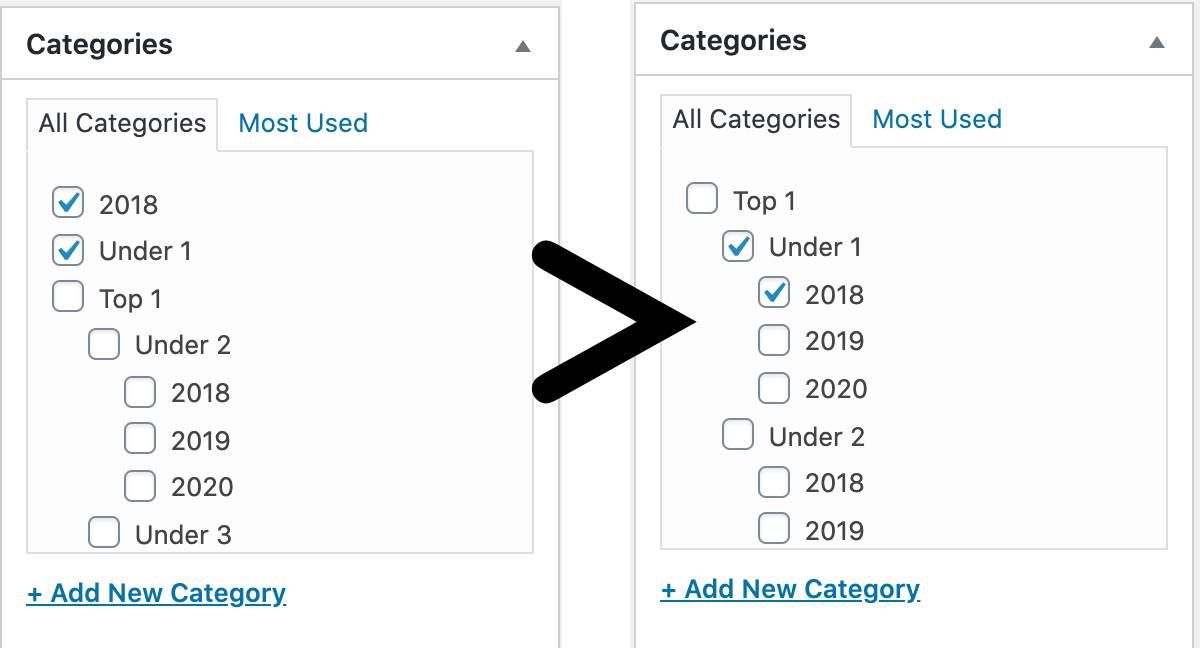
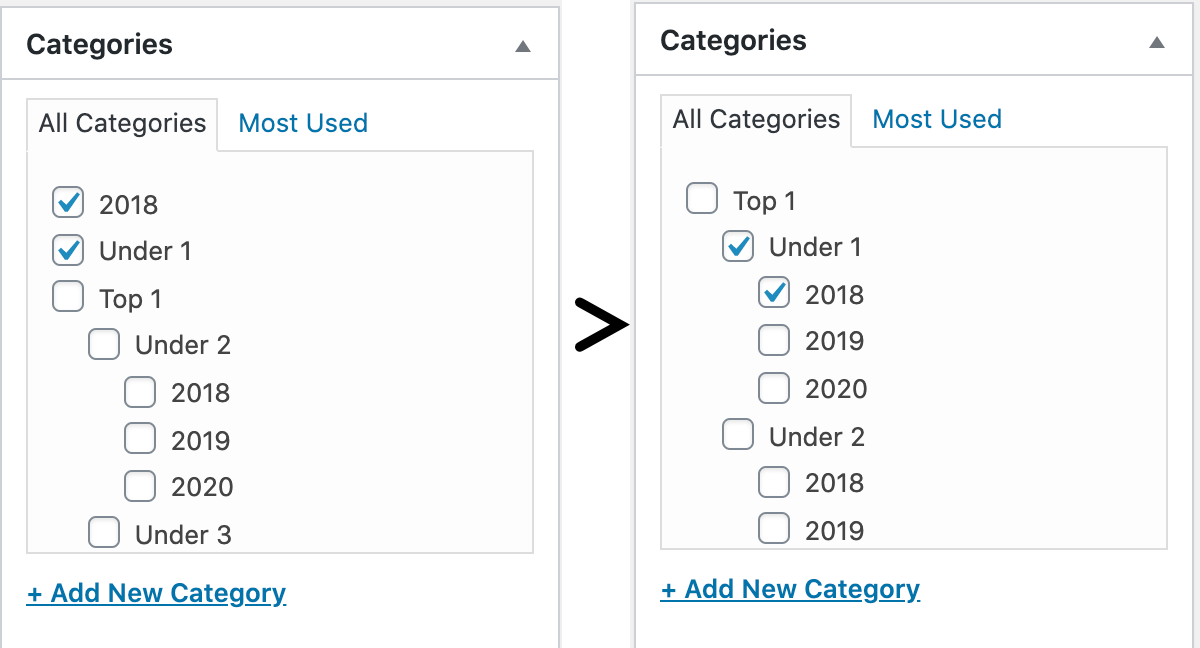
update readme

Changed region(s): [[0.4317, 0.3704, 0.5858, 0.6173]]

diff --git a/README.md b/README.md
@@ -1,6 +1,6 @@
-# Disable Category Sort on Post Screen
+# Disable Checked On Top
 
-On WordPress post edit screen, disable category auto sort for selected categories.
+On WordPress post edit screen, disable "checked on top" for selected categories.
 
 <img src="assets/dss-disable-category-sort.png">
 
@@ -18,10 +18,10 @@ add_filter( 'wp_terms_checklist_args', function ( $args ) {
 
 ## Copyright and License
 
-Disable Category Sort on Post Screen is copyright 2020 Per Soderlind
+Disable Checked On Top is copyright 2020 Per Soderlind
 
-Disable Category Sort on Post Screen is free software: you can redistribute it and/or modify it under the terms of the GNU General Public License as published by the Free Software Foundation, either version 2 of the License, or (at your option) any later version.
+Disable Checked On Top is free software: you can redistribute it and/or modify it under the terms of the GNU General Public License as published by the Free Software Foundation, either version 2 of the License, or (at your option) any later version.
 
-Disable Category Sort on Post Screen is distributed in the hope that it will be useful, but WITHOUT ANY WARRANTY; without even the implied warranty of MERCHANTABILITY or FITNESS FOR A PARTICULAR PURPOSE. See the GNU General Public License for more details.
+Disable Checked On Top is distributed in the hope that it will be useful, but WITHOUT ANY WARRANTY; without even the implied warranty of MERCHANTABILITY or FITNESS FOR A PARTICULAR PURPOSE. See the GNU General Public License for more details.
 
 You should have received a copy of the GNU Lesser General Public License along with the Extension. If not, see http://www.gnu.org/licenses/.
